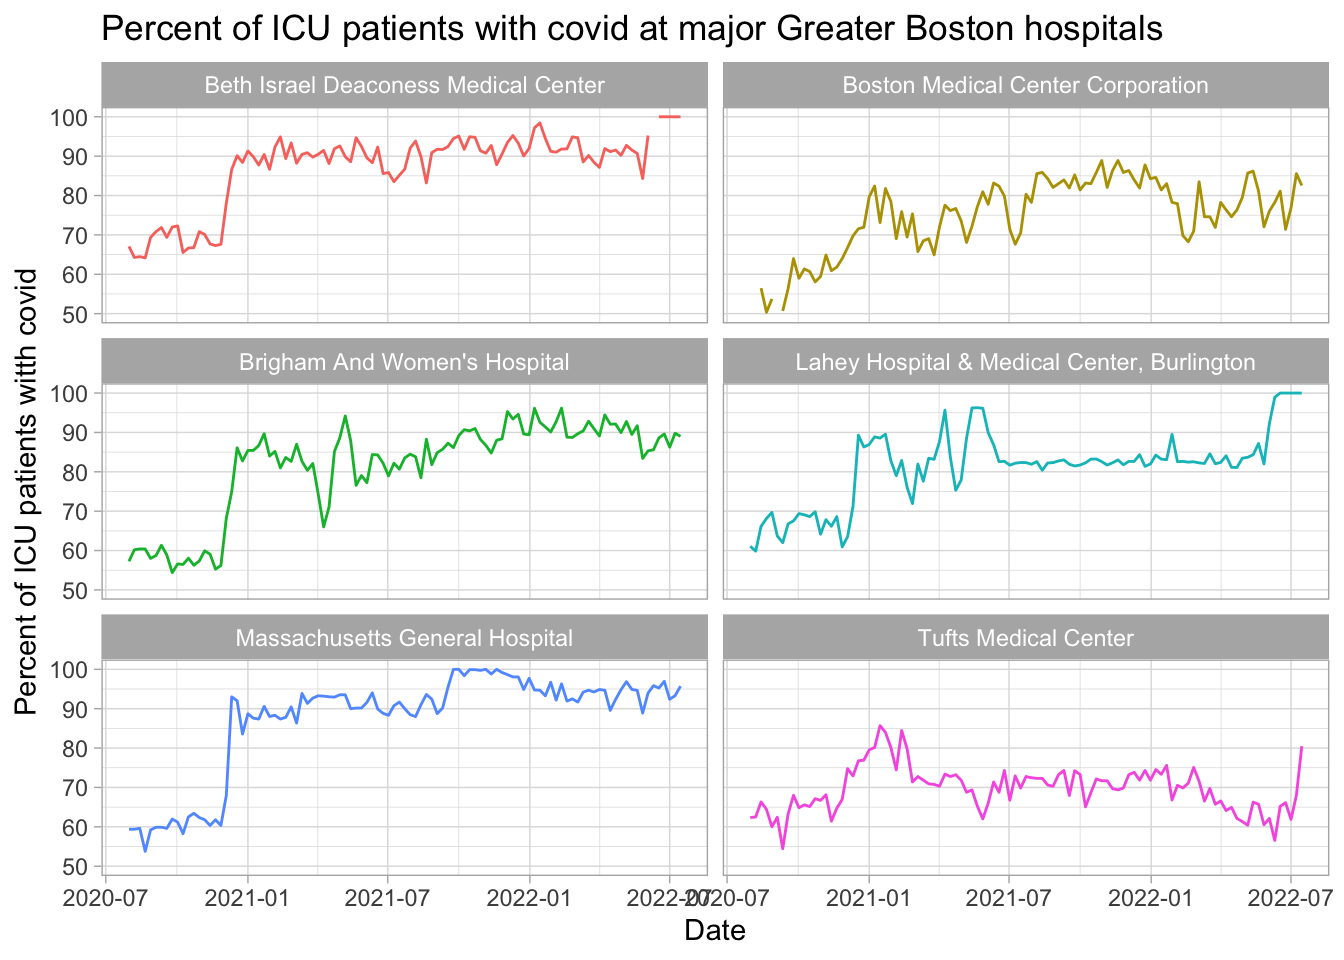
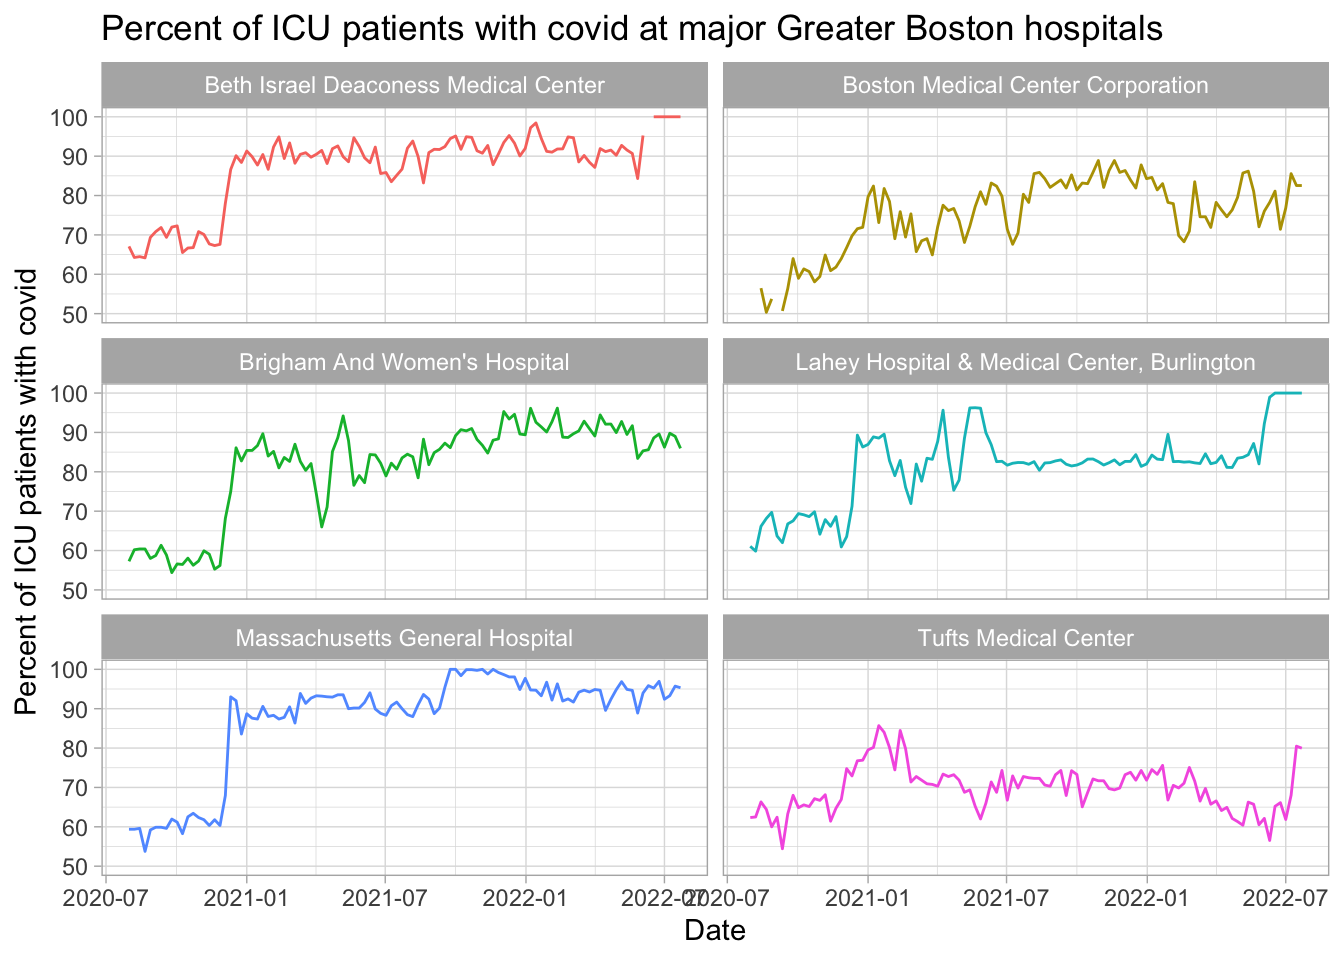
updated data

diff --git a/docs/index.html b/docs/index.html
@@ -310,7 +310,7 @@ it could indicate that many other cases are being missed).</p>
 <p>The US Department of Health and Human Services gives data on hospital
 usage. Here are data of ICU bed availability for hospitals in this area
 with at least 25 staffed ICU beds, using data from the week starting
-2022-07-15.</p>
+2022-07-22.</p>
 <table>
 <colgroup>
 <col width="46%" />
@@ -329,27 +329,27 @@ with at least 25 staffed ICU beds, using data from the week starting
 <tbody>
 <tr class="odd">
 <td align="left">Beth Israel Deaconess Medical Center</td>
-<td align="right">8</td>
+<td align="right">7</td>
 <td align="right">125</td>
-<td align="right">93</td>
+<td align="right">94</td>
 </tr>
 <tr class="even">
 <td align="left">Boston Children’s Hospital</td>
-<td align="right">10</td>
+<td align="right">13</td>
 <td align="right">119</td>
-<td align="right">92</td>
+<td align="right">89</td>
 </tr>
 <tr class="odd">
 <td align="left">Boston Medical Center Corporation</td>
-<td align="right">17</td>
+<td align="right">18</td>
 <td align="right">88</td>
-<td align="right">81</td>
+<td align="right">79</td>
 </tr>
 <tr class="even">
 <td align="left">Brigham And Women’s Hospital</td>
-<td align="right">11</td>
+<td align="right">16</td>
 <td align="right">160</td>
-<td align="right">93</td>
+<td align="right">90</td>
 </tr>
 <tr class="odd">
 <td align="left">Lahey Hospital &amp; Medical Center, Burlington</td>
@@ -359,15 +359,15 @@ with at least 25 staffed ICU beds, using data from the week starting
 </tr>
 <tr class="even">
 <td align="left">Massachusetts General Hospital</td>
-<td align="right">5</td>
-<td align="right">147</td>
+<td align="right">6</td>
+<td align="right">149</td>
 <td align="right">96</td>
 </tr>
 <tr class="odd">
 <td align="left">Tufts Medical Center</td>
-<td align="right">24</td>
-<td align="right">104</td>
-<td align="right">77</td>
+<td align="right">26</td>
+<td align="right">105</td>
+<td align="right">75</td>
 </tr>
 </tbody>
 </table>
@@ -379,7 +379,7 @@ in the state:</p>
 <p>And those intubated:</p>
 <p><img src="index_files/figure-html/unnamed-chunk-7-1.png" width="672" /></p>
 <p>Plotting percentage of ICU patients with covid over time (up to the
-week starting 2022-07-15). Some hospitals have much more frequently
+week starting 2022-07-22). Some hospitals have much more frequently
 updated data than others; some is fairly gappy. This just plots the
 hospitals that average at least 25 staffed <em>adult</em> ICU beds per
 week.</p>

diff --git a/docs/individualhospitals.html b/docs/individualhospitals.html
@@ -305,27 +305,27 @@ usage. Here are data for hospitals in this area.</p>
 <tbody>
 <tr class="odd">
 <td align="left">Beth Israel Deaconess Medical Center</td>
-<td align="right">8</td>
+<td align="right">7</td>
 <td align="right">125</td>
-<td align="right">93</td>
+<td align="right">94</td>
 </tr>
 <tr class="even">
 <td align="left">Boston Children’s Hospital</td>
-<td align="right">10</td>
+<td align="right">13</td>
 <td align="right">119</td>
-<td align="right">92</td>
+<td align="right">89</td>
 </tr>
 <tr class="odd">
 <td align="left">Boston Medical Center Corporation</td>
-<td align="right">17</td>
+<td align="right">18</td>
 <td align="right">88</td>
-<td align="right">81</td>
+<td align="right">79</td>
 </tr>
 <tr class="even">
 <td align="left">Brigham And Women’s Hospital</td>
-<td align="right">11</td>
+<td align="right">16</td>
 <td align="right">160</td>
-<td align="right">93</td>
+<td align="right">90</td>
 </tr>
 <tr class="odd">
 <td align="left">Lahey Hospital &amp; Medical Center, Burlington</td>
@@ -335,15 +335,15 @@ usage. Here are data for hospitals in this area.</p>
 </tr>
 <tr class="even">
 <td align="left">Massachusetts General Hospital</td>
-<td align="right">5</td>
-<td align="right">147</td>
+<td align="right">6</td>
+<td align="right">149</td>
 <td align="right">96</td>
 </tr>
 <tr class="odd">
 <td align="left">Tufts Medical Center</td>
-<td align="right">24</td>
-<td align="right">104</td>
-<td align="right">77</td>
+<td align="right">26</td>
+<td align="right">105</td>
+<td align="right">75</td>
 </tr>
 </tbody>
 </table>
